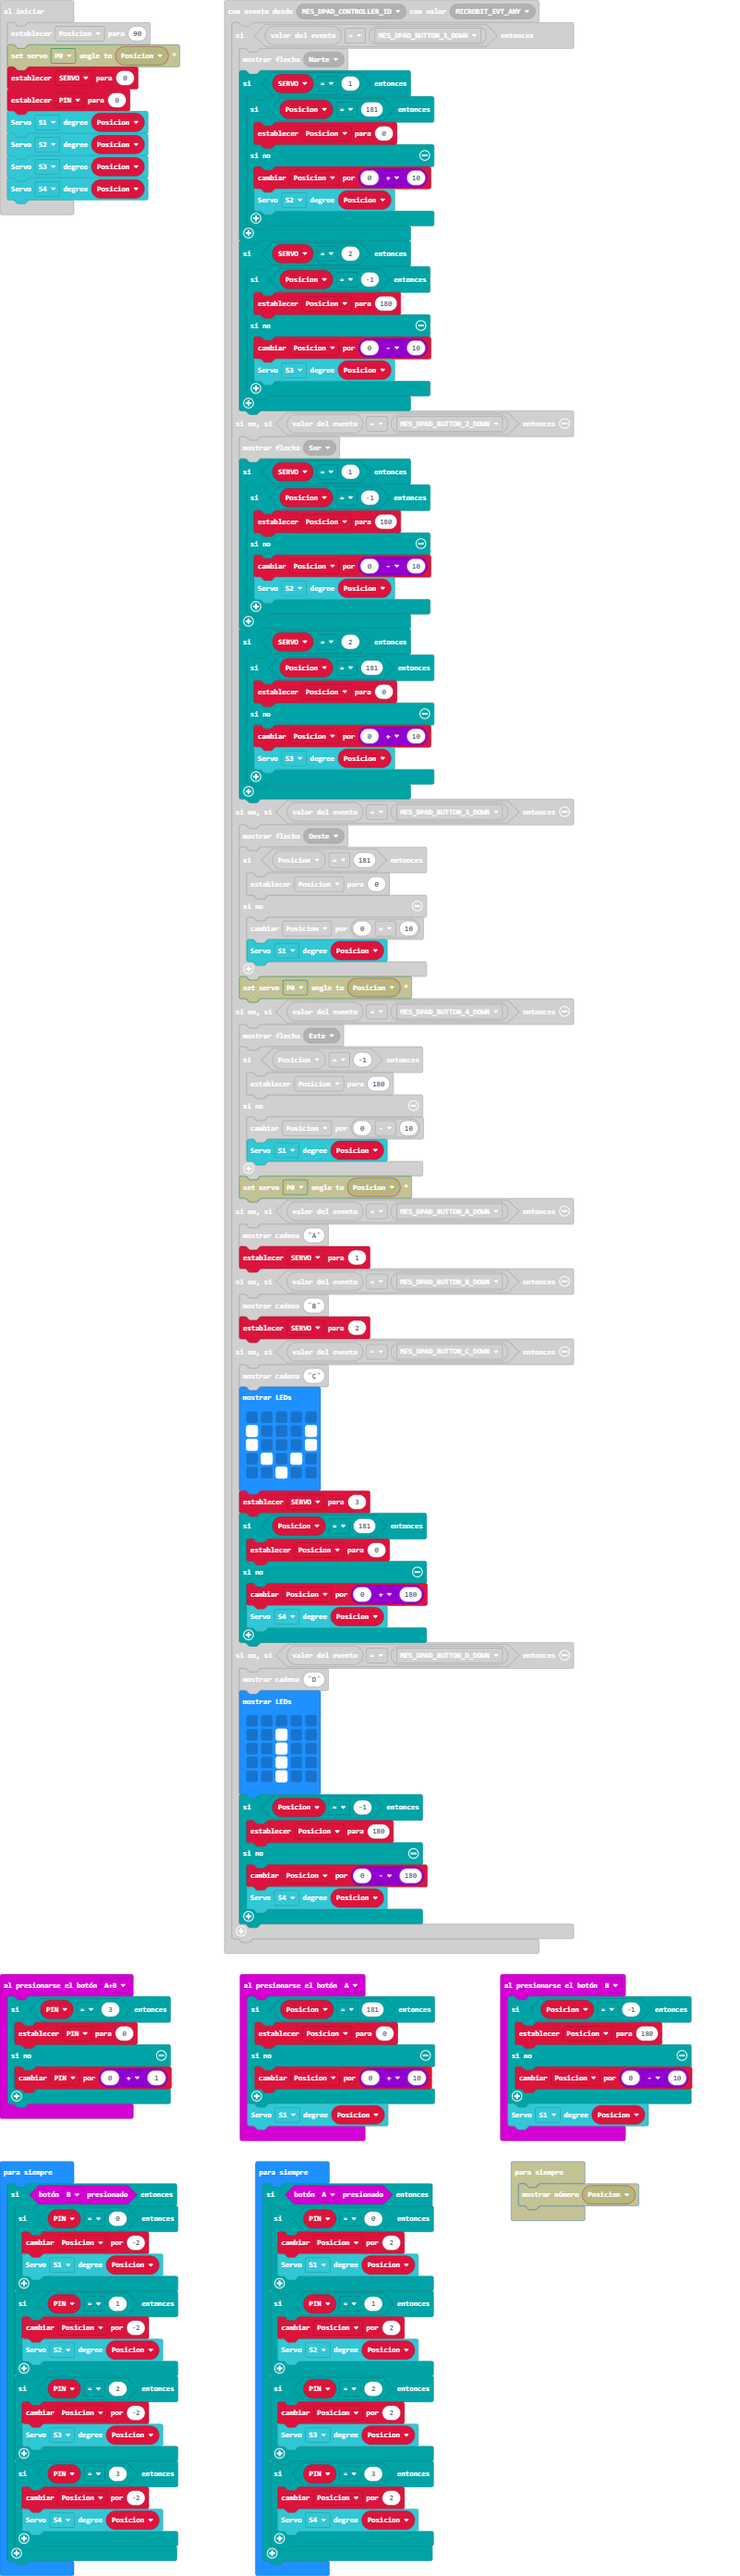
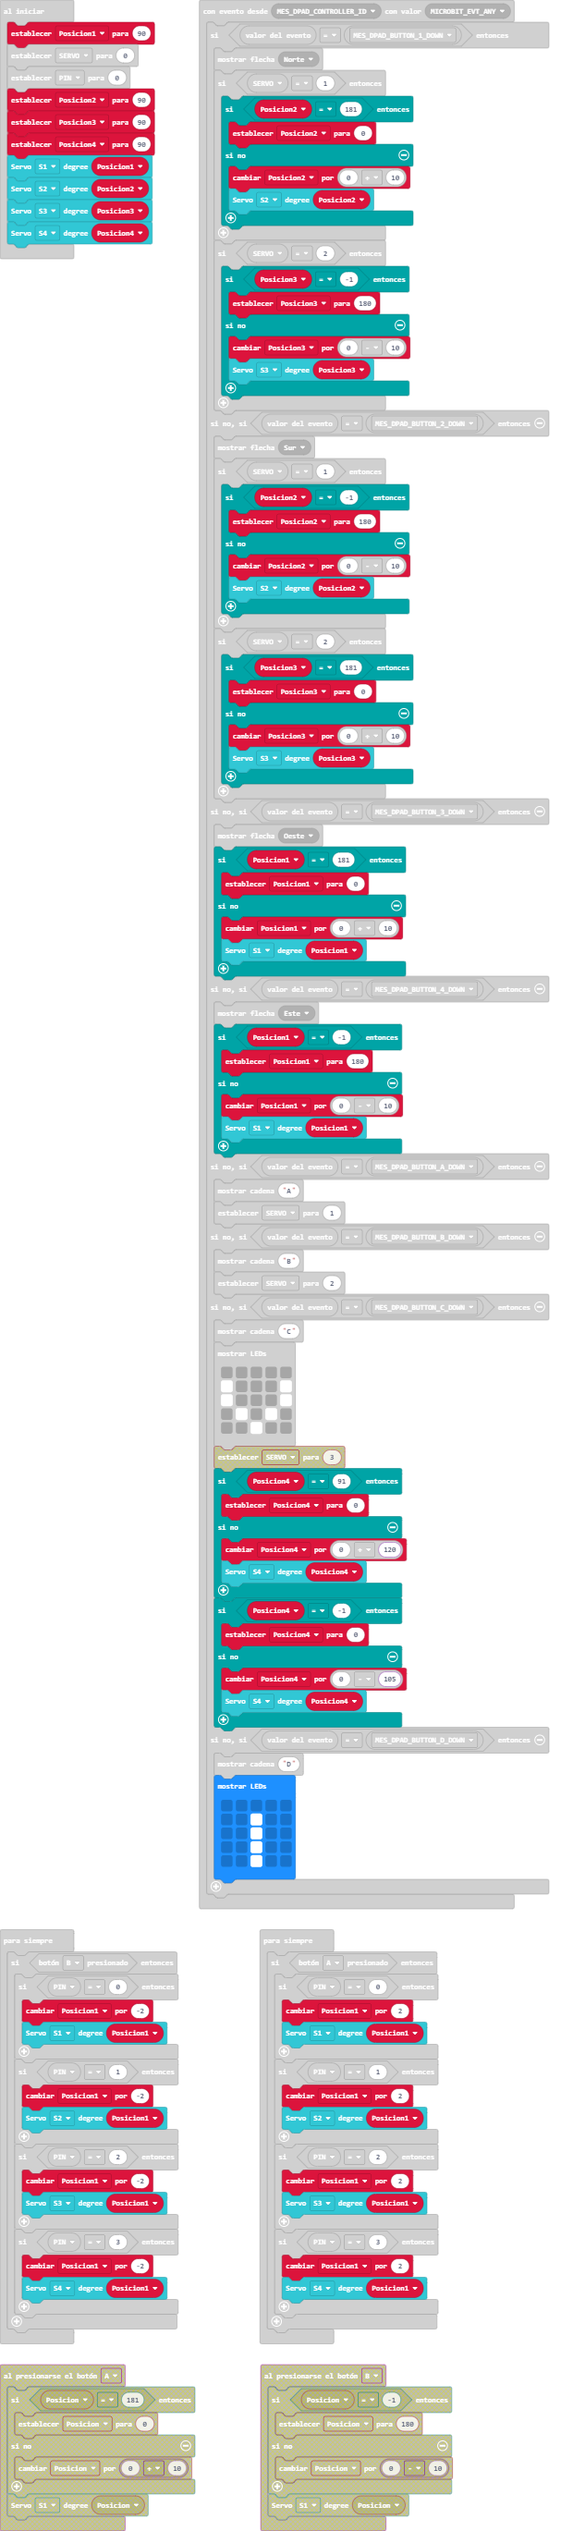
Falta Afinar pero parece que ya esta

diff --git a/main.ts b/main.ts
@@ -16,14 +16,6 @@ bluetooth.onBluetoothDisconnected(function () {
         # . . . #
         `)
 })
-input.onButtonPressed(Button.A, function () {
-    if (Posicion == 181) {
-        Posicion = 0
-    } else {
-        Posicion += 0 + 10
-    }
-    robotbit.Servo(robotbit.Servos.S1, Posicion)
-})
 input.onButtonPressed(Button.AB, function () {
     if (PIN == 3) {
         PIN = 0
@@ -31,66 +23,58 @@ input.onButtonPressed(Button.AB, function () {
         PIN += 0 + 1
     }
 })
-input.onButtonPressed(Button.B, function () {
-    if (Posicion == -1) {
-        Posicion = 180
-    } else {
-        Posicion += 0 - 10
-    }
-    robotbit.Servo(robotbit.Servos.S1, Posicion)
-})
 control.onEvent(EventBusSource.MES_DPAD_CONTROLLER_ID, EventBusValue.MICROBIT_EVT_ANY, function () {
     if (control.eventValue() == EventBusValue.MES_DPAD_BUTTON_1_DOWN) {
         basic.showArrow(ArrowNames.North)
         if (SERVO == 1) {
-            if (Posicion == 181) {
-                Posicion = 0
+            if (Posicion2 == 181) {
+                Posicion2 = 0
             } else {
-                Posicion += 0 + 10
-                robotbit.Servo(robotbit.Servos.S2, Posicion)
+                Posicion2 += 0 + 10
+                robotbit.Servo(robotbit.Servos.S2, Posicion2)
             }
         }
         if (SERVO == 2) {
-            if (Posicion == -1) {
-                Posicion = 180
+            if (Posicion3 == -1) {
+                Posicion3 = 180
             } else {
-                Posicion += 0 - 10
-                robotbit.Servo(robotbit.Servos.S3, Posicion)
+                Posicion3 += 0 - 10
+                robotbit.Servo(robotbit.Servos.S3, Posicion3)
             }
         }
     } else if (control.eventValue() == EventBusValue.MES_DPAD_BUTTON_2_DOWN) {
         basic.showArrow(ArrowNames.South)
         if (SERVO == 1) {
-            if (Posicion == -1) {
-                Posicion = 180
+            if (Posicion2 == -1) {
+                Posicion2 = 180
             } else {
-                Posicion += 0 - 10
-                robotbit.Servo(robotbit.Servos.S2, Posicion)
+                Posicion2 += 0 - 10
+                robotbit.Servo(robotbit.Servos.S2, Posicion2)
             }
         }
         if (SERVO == 2) {
-            if (Posicion == 181) {
-                Posicion = 0
+            if (Posicion3 == 181) {
+                Posicion3 = 0
             } else {
-                Posicion += 0 + 10
-                robotbit.Servo(robotbit.Servos.S3, Posicion)
+                Posicion3 += 0 + 10
+                robotbit.Servo(robotbit.Servos.S3, Posicion3)
             }
         }
     } else if (control.eventValue() == EventBusValue.MES_DPAD_BUTTON_3_DOWN) {
         basic.showArrow(ArrowNames.West)
-        if (Posicion == 181) {
-            Posicion = 0
+        if (Posicion1 == 181) {
+            Posicion1 = 0
         } else {
-            Posicion += 0 + 10
-            robotbit.Servo(robotbit.Servos.S1, Posicion)
+            Posicion1 += 0 + 10
+            robotbit.Servo(robotbit.Servos.S1, Posicion1)
         }
     } else if (control.eventValue() == EventBusValue.MES_DPAD_BUTTON_4_DOWN) {
         basic.showArrow(ArrowNames.East)
-        if (Posicion == -1) {
-            Posicion = 180
+        if (Posicion1 == -1) {
+            Posicion1 = 180
         } else {
-            Posicion += 0 - 10
-            robotbit.Servo(robotbit.Servos.S1, Posicion)
+            Posicion1 += 0 - 10
+            robotbit.Servo(robotbit.Servos.S1, Posicion1)
         }
     } else if (control.eventValue() == EventBusValue.MES_DPAD_BUTTON_A_DOWN) {
         basic.showString("A")
@@ -107,12 +91,11 @@ control.onEvent(EventBusSource.MES_DPAD_CONTROLLER_ID, EventBusValue.MICROBIT_EV
             . # . # .
             . . # . .
             `)
-        SERVO = 3
-        if (Posicion == 181) {
-            Posicion = 0
+        if (Posicion4 == -1) {
+            Posicion4 = 0
         } else {
-            Posicion += 0 + 180
-            robotbit.Servo(robotbit.Servos.S4, Posicion)
+            Posicion4 += 0 - 105
+            robotbit.Servo(robotbit.Servos.S4, Posicion4)
         }
     } else if (control.eventValue() == EventBusValue.MES_DPAD_BUTTON_D_DOWN) {
         basic.showString("D")
@@ -123,61 +106,67 @@ control.onEvent(EventBusSource.MES_DPAD_CONTROLLER_ID, EventBusValue.MICROBIT_EV
             . . # . .
             . . # . .
             `)
-        if (Posicion == -1) {
-            Posicion = 180
+        if (Posicion4 == 91) {
+            Posicion4 = 0
         } else {
-            Posicion += 0 - 180
-            robotbit.Servo(robotbit.Servos.S4, Posicion)
+            Posicion4 += 0 + 120
+            robotbit.Servo(robotbit.Servos.S4, Posicion4)
         }
     }
 })
+let Posicion4 = 0
+let Posicion3 = 0
+let Posicion2 = 0
 let PIN = 0
 let SERVO = 0
-let Posicion = 0
-Posicion = 90
+let Posicion1 = 0
+Posicion1 = 90
 SERVO = 0
 PIN = 0
-robotbit.Servo(robotbit.Servos.S1, Posicion)
-robotbit.Servo(robotbit.Servos.S2, Posicion)
-robotbit.Servo(robotbit.Servos.S3, Posicion)
-robotbit.Servo(robotbit.Servos.S4, Posicion)
+Posicion2 = 90
+Posicion3 = 90
+Posicion4 = 90
+robotbit.Servo(robotbit.Servos.S1, Posicion1)
+robotbit.Servo(robotbit.Servos.S2, Posicion2)
+robotbit.Servo(robotbit.Servos.S3, Posicion3)
+robotbit.Servo(robotbit.Servos.S4, Posicion4)
 basic.forever(function () {
     if (input.buttonIsPressed(Button.B)) {
         if (PIN == 0) {
-            Posicion += -2
-            robotbit.Servo(robotbit.Servos.S1, Posicion)
+            Posicion1 += -2
+            robotbit.Servo(robotbit.Servos.S1, Posicion1)
         }
         if (PIN == 1) {
-            Posicion += -2
-            robotbit.Servo(robotbit.Servos.S2, Posicion)
+            Posicion1 += -2
+            robotbit.Servo(robotbit.Servos.S2, Posicion1)
         }
         if (PIN == 2) {
-            Posicion += -2
-            robotbit.Servo(robotbit.Servos.S3, Posicion)
+            Posicion1 += -2
+            robotbit.Servo(robotbit.Servos.S3, Posicion1)
         }
         if (PIN == 3) {
-            Posicion += -2
-            robotbit.Servo(robotbit.Servos.S4, Posicion)
+            Posicion1 += -2
+            robotbit.Servo(robotbit.Servos.S4, Posicion1)
         }
     }
 })
 basic.forever(function () {
     if (input.buttonIsPressed(Button.A)) {
         if (PIN == 0) {
-            Posicion += 2
-            robotbit.Servo(robotbit.Servos.S1, Posicion)
+            Posicion1 += 2
+            robotbit.Servo(robotbit.Servos.S1, Posicion1)
         }
         if (PIN == 1) {
-            Posicion += 2
-            robotbit.Servo(robotbit.Servos.S2, Posicion)
+            Posicion1 += 2
+            robotbit.Servo(robotbit.Servos.S2, Posicion1)
         }
         if (PIN == 2) {
-            Posicion += 2
-            robotbit.Servo(robotbit.Servos.S3, Posicion)
+            Posicion1 += 2
+            robotbit.Servo(robotbit.Servos.S3, Posicion1)
         }
         if (PIN == 3) {
-            Posicion += 2
-            robotbit.Servo(robotbit.Servos.S4, Posicion)
+            Posicion1 += 2
+            robotbit.Servo(robotbit.Servos.S4, Posicion1)
         }
     }
 })
